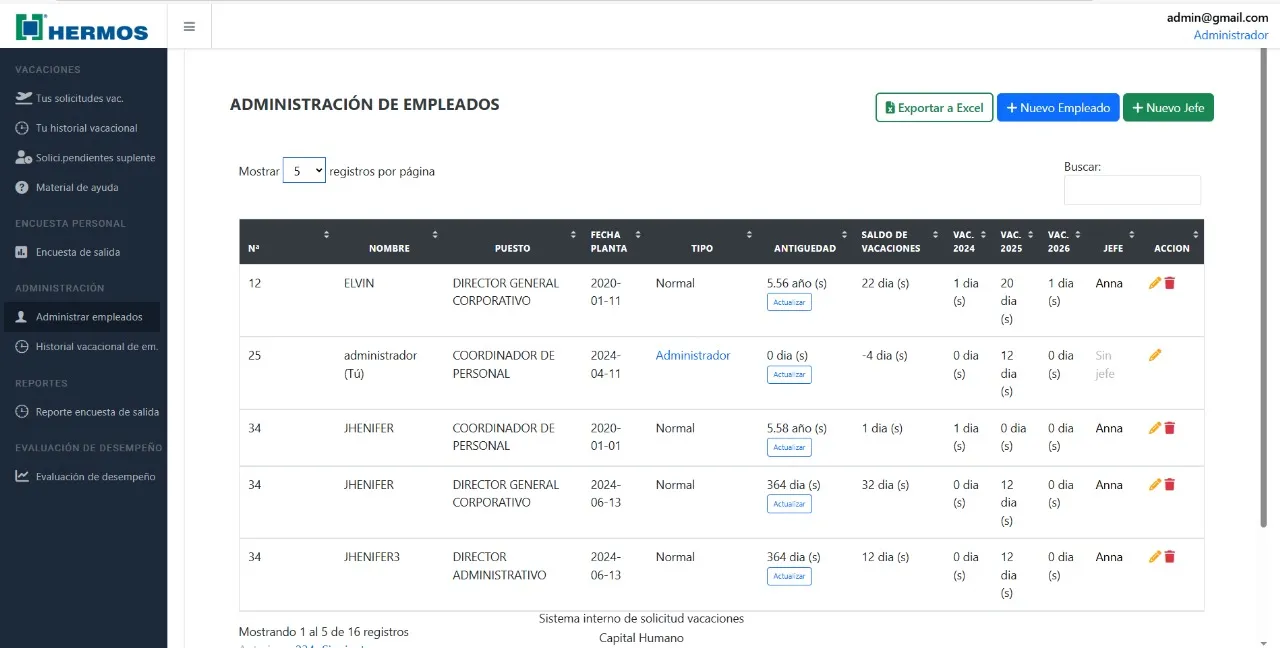
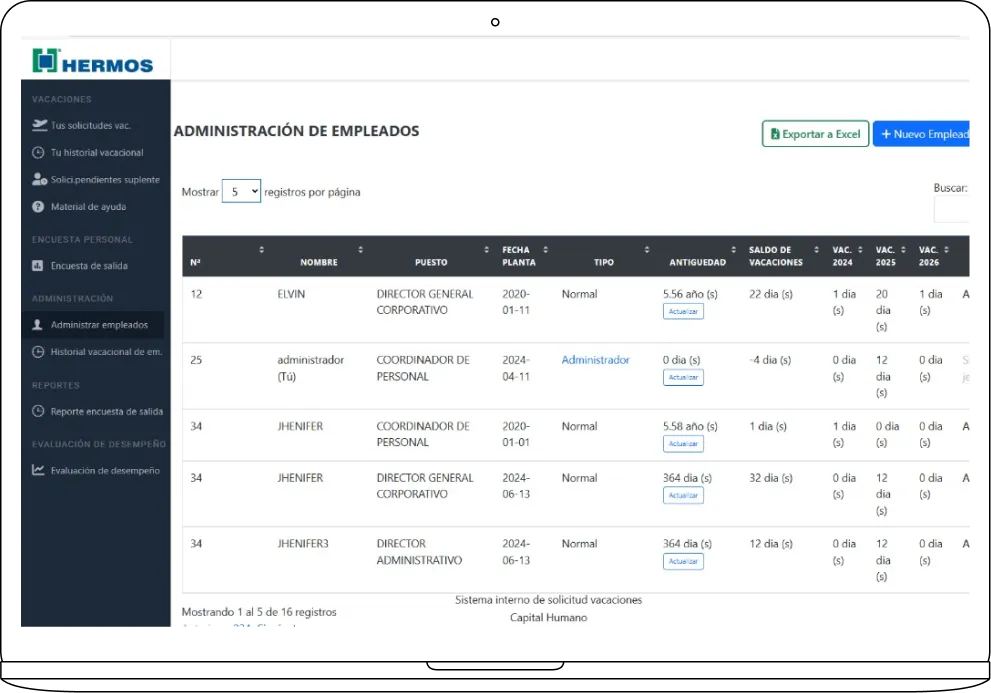
feat: add hermos and belleza images with mockups

diff --git a/src/components/gallery/project_data.ts b/src/components/gallery/project_data.ts
@@ -20,9 +20,6 @@ import BELLEZA1 from "@/assets/gallery/BELLEZA/img1.webp";
 import BELLEZA2 from "@/assets/gallery/BELLEZA/img2.webp";
 import BELLEZA3 from "@/assets/gallery/BELLEZA/img3.webp";
 import BELLEZA4 from "@/assets/gallery/BELLEZA/img4.webp";
-import BELLEZA5 from "@/assets/gallery/BELLEZA/img5.webp";
-import BELLEZA6 from "@/assets/gallery/BELLEZA/img6.webp";
-import BELLEZA7 from "@/assets/gallery/BELLEZA/img7.webp";
 
 import EL_CRUCE_LOGO from "@/assets/gallery/EL_CRUCE/logo.webp";
 import EL_CRUCE1 from "@/assets/gallery/EL_CRUCE/img1.webp";
@@ -137,15 +134,7 @@ export const projects: Project[] = [
     title: "App de Servicios de Belleza",
     category_id: 4,
     cover: BELLEZA_LOGO,
-    images: [
-      BELLEZA1,
-      BELLEZA2,
-      BELLEZA3,
-      BELLEZA4,
-      BELLEZA5,
-      BELLEZA6,
-      BELLEZA7,
-    ],
+    images: [BELLEZA1, BELLEZA2, BELLEZA3, BELLEZA4],
     description:
       "Aplicación móvil para profesionales del sector estético: contratación de estilistas, maquilladores y otros servicios de belleza bajo demanda.",
   },
